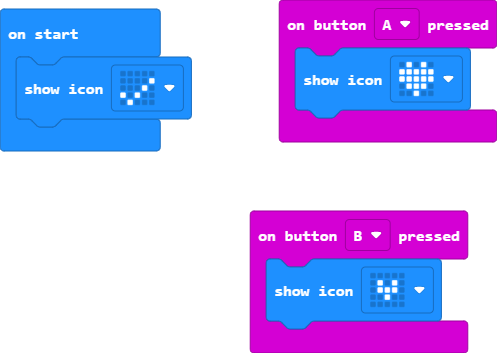
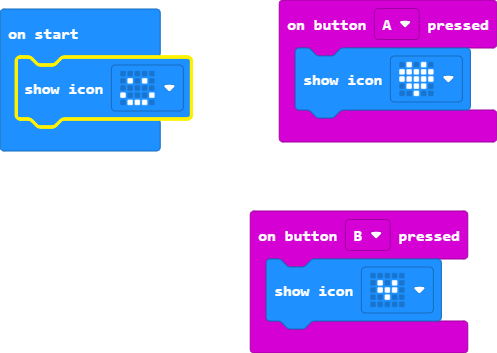
Update main.blocks, main.ts

Changed region(s): [[0.0302, 0.1558, 0.3924, 0.3428], [0.0604, 0.3428, 0.1207, 0.3739]]

diff --git a/main.ts b/main.ts
@@ -4,4 +4,4 @@ input.onButtonPressed(Button.A, function () {
 input.onButtonPressed(Button.B, function () {
     basic.showIcon(IconNames.SmallHeart)
 })
-basic.showIcon(IconNames.Yes)
+basic.showIcon(IconNames.Happy)
